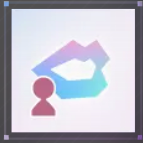
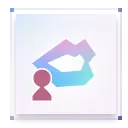
alter the template for img format change for some components

diff --git a/src/app/card-value/card-value.component.html b/src/app/card-value/card-value.component.html
@@ -19,7 +19,7 @@
                 <img class="img-fluid icon" src="{{'assets/images/' + card.type + '.png'}}">
                 <span style="font-size: 1.1em; padding-left: 1em;">{{power}}</span>
             </div>
-            <img class="img-fluid" src="{{'assets/images/' + card.character + '/' + card.id + '-full.png'}}">
+            <img class="img-fluid" src="{{'assets/images/' + card.character + '/' + card.id + '-full.webp'}}">
         </div> 
         <table *ngIf="coin != 0" class="col-10 col-md-7 col-lg-4 table table-sm table-dark text-center smallFont" style="color: white;">
             <tr>

diff --git a/src/app/skill-detail/skill-detail.component.html b/src/app/skill-detail/skill-detail.component.html
@@ -33,7 +33,7 @@
                 <span *ngIf="cards.length != 0; else noCard">
                     <span class="m-2" *ngFor="let c of cards">
                         <a [routerLink]="['/card-value/', c.character, c.id]">
-                            <img class="img-fluid cardIcon" src="{{'assets/images/' + c.character + '/' + c.id + '.png'}}"
+                            <img class="img-fluid cardIcon" src="{{'assets/images/' + c.character + '/' + c.id + '.webp'}}"
                                 alt="{{c.name}}">
                         </a>
                     </span>

diff --git a/src/app/card-value-setting/card-value-setting.component.html b/src/app/card-value-setting/card-value-setting.component.html
@@ -19,7 +19,7 @@
                 <img class="img-fluid icon" src="{{'assets/images/' + card.type + '.png'}}">
                 <span style="font-size: 1.1em; padding-left: 1em;">{{power}}</span>
             </div>
-            <img class="img-fluid" src="{{'assets/images/' + char + '/' + id + '-full.png'}}">
+            <img class="img-fluid" src="{{'assets/images/' + char + '/' + id + '-full.webp'}}">
         </div> 
         <table class="col-10 col-md-7 col-lg-4 table table-sm table-dark text-center smallFont" style="color: white;">
             <tr>

diff --git a/src/app/card-calculator/card-calculator.component.html b/src/app/card-calculator/card-calculator.component.html
@@ -51,7 +51,7 @@
             <div class="col-3 my-2" *ngFor="let i of userData">
                 <a [routerLink]="['/card-value/', i.charName, i.name]" routerLinkActive="active">
                     <img class="img-fluid calculatorIcon"
-                        src="{{'assets/images/' + i.charName + '/' + i.name + '.png'}}">
+                        src="{{'assets/images/' + i.charName + '/' + i.name + '.webp'}}">
                 </a>
             </div>
             <div class="col-3 my-2" *ngFor="let i of emptyHolder">

diff --git a/src/app/card-list/card-list.component.html b/src/app/card-list/card-list.component.html
@@ -80,7 +80,7 @@
                     <td>
                         <a [routerLink]="['/card-value/', c.char, c.n]" routerLinkActive="active" target="_blank">
                             <img class="img-fluid cardIcon"
-                                src="{{'assets/images/' + c.character + '/' + c.id + '.png'}}">
+                                src="{{'assets/images/' + c.character + '/' + c.id + '.webp'}}">
                         </a>
                     </td>
                     <td>

diff --git a/src/app/card-selection/card-selection.component.html b/src/app/card-selection/card-selection.component.html
@@ -49,7 +49,7 @@
     <div class="col-12 row justify-content-around mt-4">
         <div class="col-3 col-md-2 my-1" *ngFor="let c of cards">
             <a [routerLink]="['/card-value-setting/', c.character, c.id]" routerLinkActive="active">
-                <img class="img-fluid" src="{{'assets/images/' + c.character + '/' + c.id + '.png'}}">
+                <img class="img-fluid" src="{{'assets/images/' + c.character + '/' + c.id + '.webp'}}">
             </a>
         </div>
 </div>

diff --git a/src/app/card-list/card-list.component.ts b/src/app/card-list/card-list.component.ts
@@ -37,6 +37,10 @@ export class CardListComponent implements OnInit {
         card.n = card.nameEN != '' ? card.nameEN : card.name
         card.name = card.nameEN != '' ? card.nameEN : card.name
         card.char = card.characterEN != '' ? card.characterEN : card.character
+      }else{
+        card.n = card.name
+        card.name = card.name
+        card.char = card.character
       }
       c.push(card)
     })

diff --git a/src/app/card-pool-history/card-pool-history.component.ts b/src/app/card-pool-history/card-pool-history.component.ts
@@ -43,7 +43,7 @@ export class CardPoolHistoryComponent implements OnInit {
   getImgSrc(name: string) {
     let pre = `assets/images/`
     let param = ""
-    let post = ".png"
+    let post = ".webp"
     this.cards.forEach(c => {
       if (name == c.name) {
         param = c.character + "/" + c.id

diff --git a/src/styles.scss b/src/styles.scss
@@ -10,7 +10,7 @@
 
 #main-container {
     min-height: 90vh;
-    background-image: url("assets/images/bg.png");
+    background-image: url("assets/images/bg.webp");
     background-position: top left;
     background-repeat: no-repeat;
     background-attachment: fixed;
